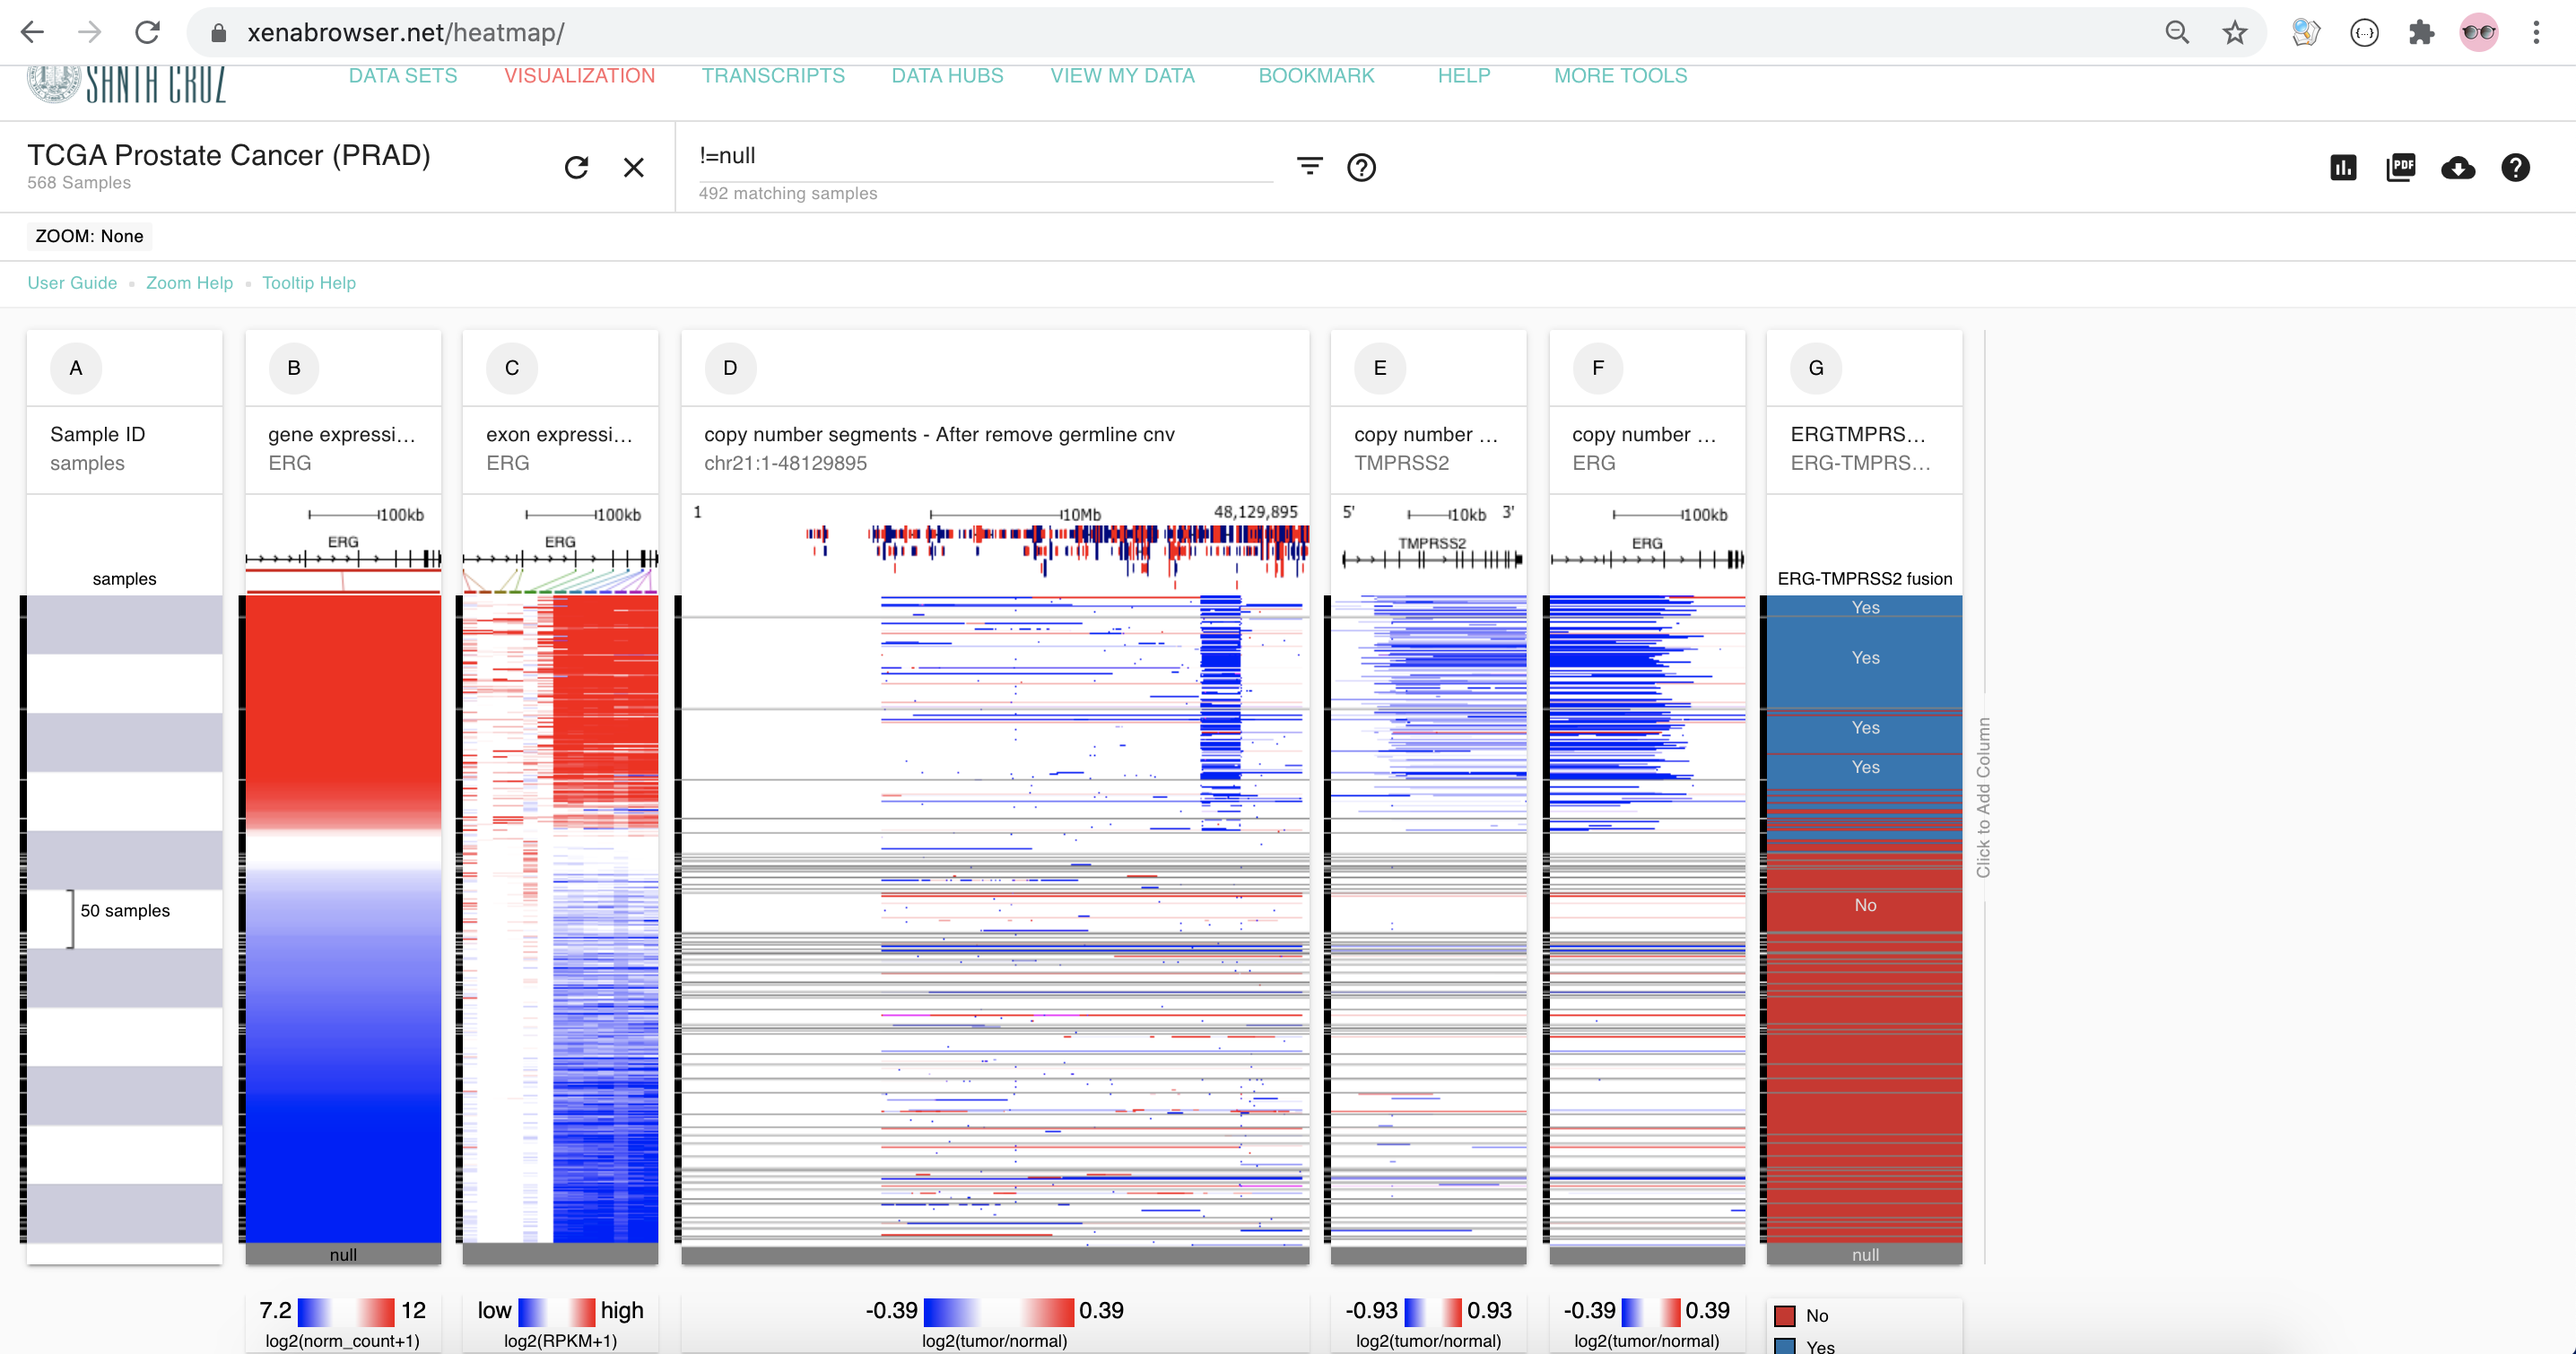
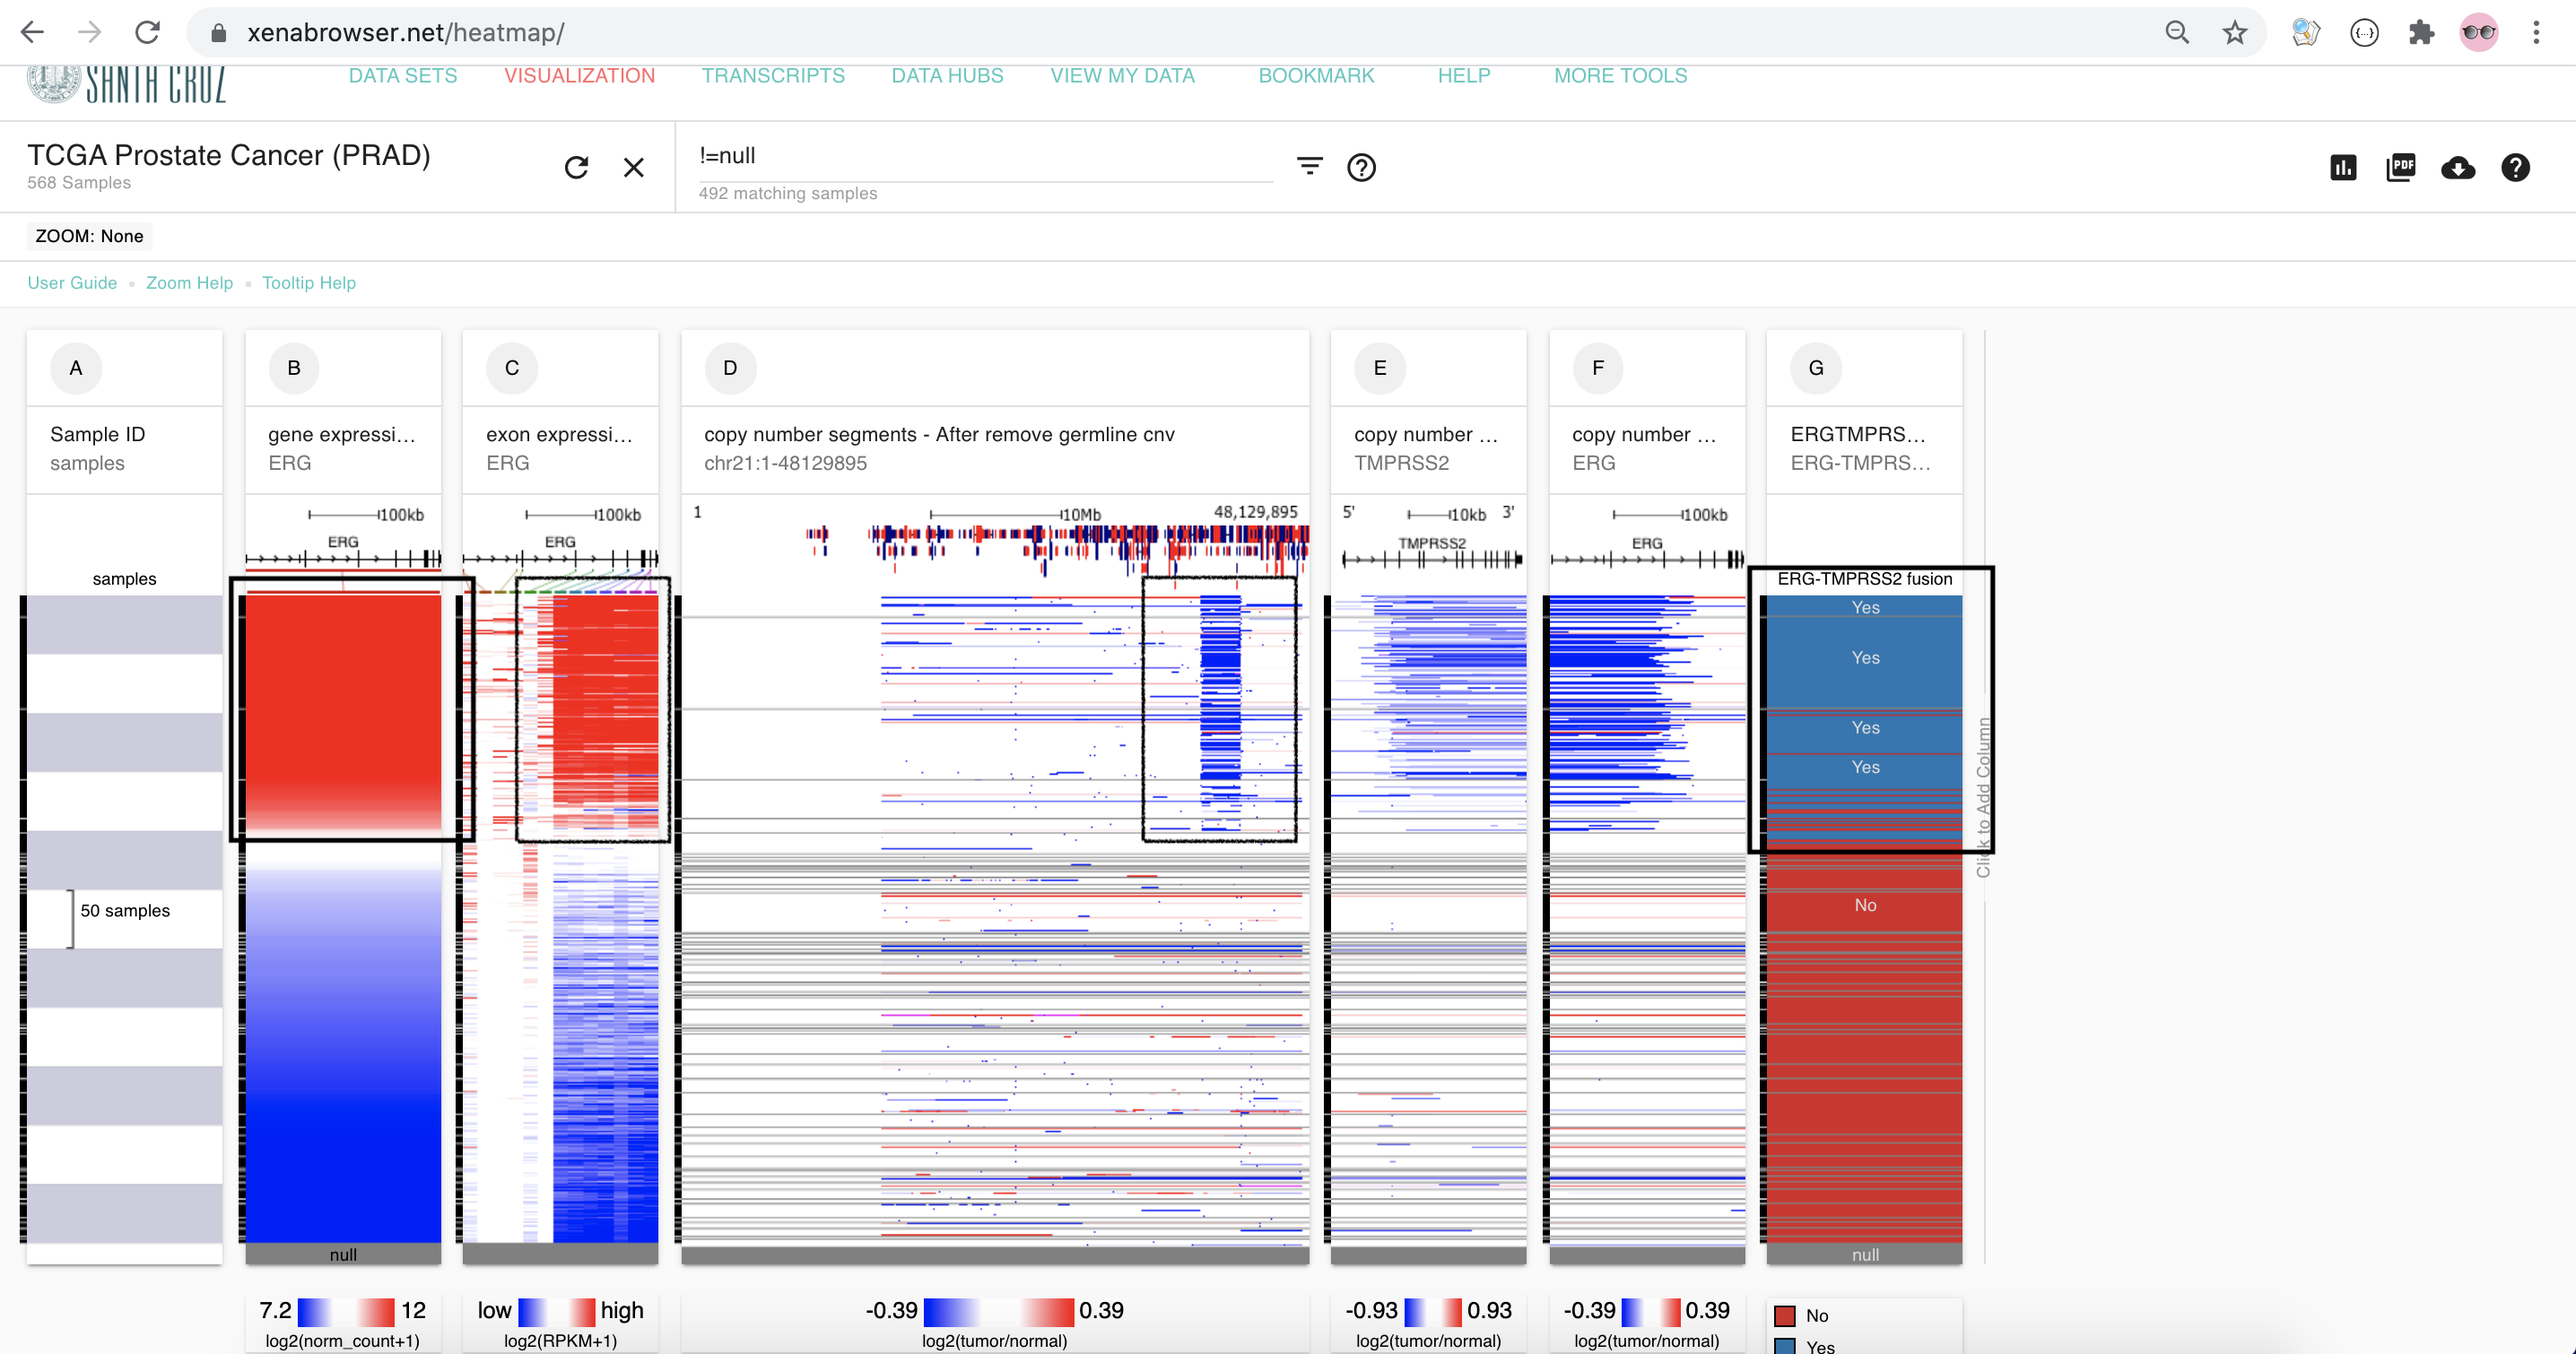
mark image

diff --git a/docs/post/privatepublictogether/index.html b/docs/post/privatepublictogether/index.html
@@ -70,7 +70,7 @@
 <meta itemprop="description" content="Put private data and public Xena Data together via UCSC Xena Hub .">
 <meta itemprop="datePublished" content="2020-09-11T00:00:00+00:00" />
 <meta itemprop="dateModified" content="2020-09-15T00:00:00+00:00" />
-<meta itemprop="wordCount" content="120">
+<meta itemprop="wordCount" content="190">
 
 
 
@@ -436,10 +436,10 @@ if (!doNotTrack) {
 <p>Add 3 columns for <code>ERG</code>: <code>Gene expression</code>, <code>Copy number</code>, <code>Exon expression</code>.</p>
 </li>
 <li>
-<p>Add <code>TMPRSS2</code> <code>Copy number</code>.</p>
+<p>Add column for <code>TMPRSS2</code>, <code>Copy number</code>.</p>
 </li>
 <li>
-<p>Add <code>chr21</code> <code>Copy number</code>.</p>
+<p>Add column for <code>chr21</code>, <code>Copy number</code>.</p>
 <p><img src="step0.png" alt="step 0"></p>
 </li>
 </ul>
@@ -472,6 +472,21 @@ if (!doNotTrack) {
 <li>
 <p>Add <strong>Phenotype</strong> <code>ERG-TMPRSS2 fusion</code> and generate the final input.</p>
 <p><img src="step7.png" alt="step 7"></p>
+</li>
+</ul>
+<p><strong>In summary</strong>, as shown in the last image:</p>
+<ul>
+<li>
+<p>About half of the samples have high expression of ERG ( Column <code>B</code>).</p>
+</li>
+<li>
+<p>The high expression of ERG is specifically located in the exons from 3&rsquo; end of genes ( Column <code>C</code>).</p>
+</li>
+<li>
+<p>Samples with over-expression of ERG shows a deletion in chromosome 21 ( Column <code>D</code>).</p>
+</li>
+<li>
+<p>Fusion calls agree with expression and Copy number data ( Column <code>EFG</code>).</p>
 </li>
 </ul>
     </div>
